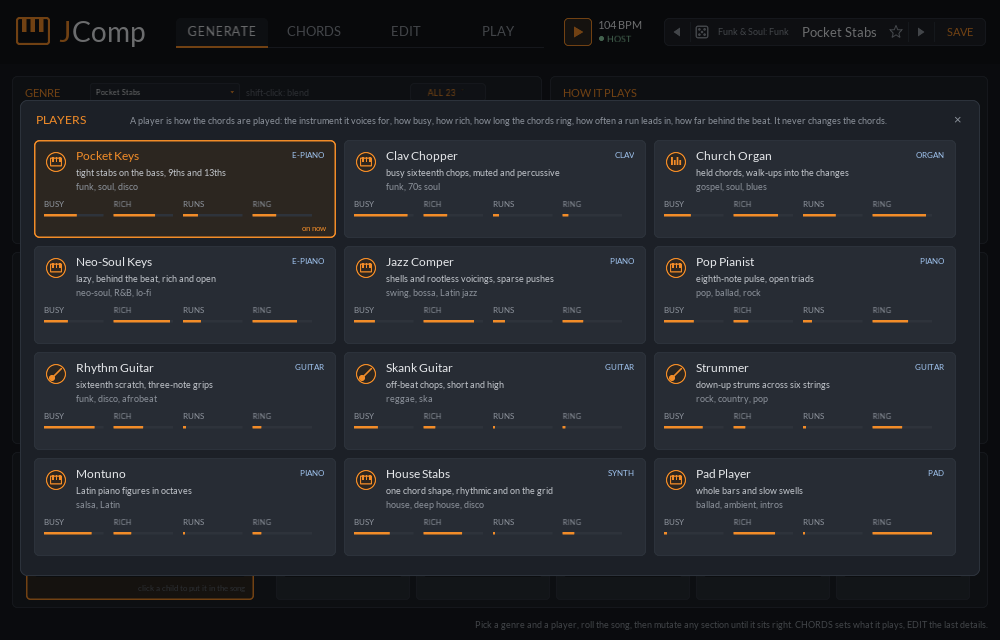
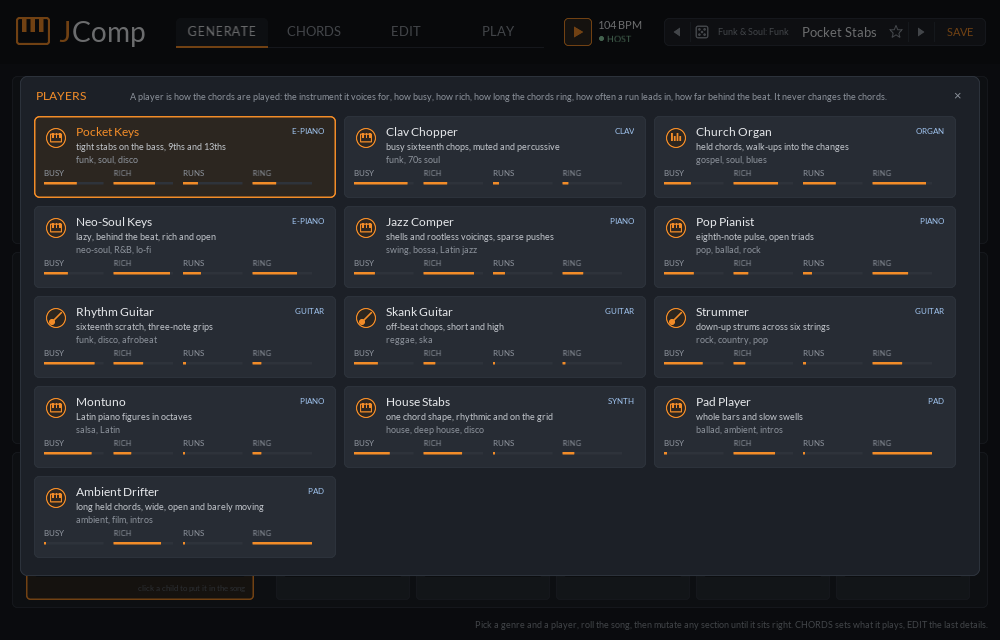
JComp: an Ambient genre and the Ambient Drifter player
Long held chords: a bar or two bars held, slow swells, a late re-strike
like a tape loop coming round, over two-bar sus, add9 and major-seventh
changes that sit between a minor and its relative major. The Ambient
Drifter voices them wide and quartal, rolled in, ringing to the next.
Sourced from Eno's Music for Airports notes and analyses, and Budd's
"soft pedal" playing (docs/sources.md, 47-50). The players overlay fits
a thirteenth card and the browser a seventh family.

Claude-Session: https://claude.ai/code/session_01FGswf7YxMj2ixngay6raQb

diff --git a/plugins/jcomp/src/editor.cpp b/plugins/jcomp/src/editor.cpp
@@ -1,7 +1,7 @@
 // JComp's panel, on a 1000 x 640 design grid scaled to the window, in JDrummer's style: a title bar
 // with the four tabs, a small transport and the preset browser, and cards under it.
 //
-//    GENERATE   GENRE (twelve tiles, the style, the browser of all 23), HOW IT PLAYS (the player,
+//    GENERATE   GENRE (twelve tiles, the style, the browser of every genre), HOW IT PLAYS (the player,
 //               ENERGY, WEIRD, ROLL SONG), THE SONG (seven sections with their chords, each its own
 //               dice, lock and energy), MUTATE (the section's take now and five children)
 //    CHORDS     KEY and scale, where the chords come from (the progression, held notes or both), each
@@ -1727,21 +1727,19 @@ public:
          drawPlayerIcon(c, s, x + 22, y + 22, p.kind, kOrange);
          label(c, s, p.name, x + 42, y + 8, 160, on ? kOrange : kWhite, visage::Font::kLeft, 11.5f);
          label(c, s, upper(kInstrumentNames[p.instrument]), x + 42, y + 9, kCardW - 62, kBlue, visage::Font::kRight, 7.5f);
-         label(c, s, p.blurb, x + 42, y + 26, kCardW - 60, kTitle, visage::Font::kLeft, 9);
-         label(c, s, p.genres, x + 42, y + 40, kCardW - 60, 0, visage::Font::kLeft, 8.5f);
+         label(c, s, p.blurb, x + 42, y + 24, kCardW - 60, kTitle, visage::Font::kLeft, 9);
+         label(c, s, p.genres, x + 42, y + 37, kCardW - 60, 0, visage::Font::kLeft, 8.5f);
          const char *traits[4] = {"BUSY", "RICH", "RUNS", "RING"};
          const double v[4] = {p.busy, p.rich, p.runs, p.ring};
          const float tw = (kCardW - 32) / 4;
          for (int k = 0; k < 4; ++k) {
             const float tx = x + 10 + k * tw;
-            label(c, s, traits[k], tx, y + 58, tw, 0, visage::Font::kLeft, 7.5f);
+            label(c, s, traits[k], tx, y + 51, tw, 0, visage::Font::kLeft, 7.5f);
             c.setColor(ui::defaultTheme().track);
-            c.roundedRectangle(tx * s, (y + 74) * s, (tw - 10) * s, 2.5f * s, 1 * s);
+            c.roundedRectangle(tx * s, (y + 66) * s, (tw - 10) * s, 2.5f * s, 1 * s);
             c.setColor(kOrange);
-            c.roundedRectangle(tx * s, (y + 74) * s, std::max(2.0f, static_cast<float>((tw - 10) * v[k])) * s, 2.5f * s, 1 * s);
+            c.roundedRectangle(tx * s, (y + 66) * s, std::max(2.0f, static_cast<float>((tw - 10) * v[k])) * s, 2.5f * s, 1 * s);
          }
-         if (on)
-            label(c, s, "on now", x + 10, y + kCardH - 24, kCardW - 28, kOrange, visage::Font::kRight, 8);
       }
    }
    void mouseDown(const visage::MouseEvent &e) override {
@@ -1755,14 +1753,14 @@ public:
       if (x < 0 || y < 0)
          return;
       const int col = static_cast<int>(x / kCardW), row = static_cast<int>(y / kCardH);
-      if (col > 2 || row > 3)
+      if (col > 2 || row * 3 + col >= kPlayers)
          return;
       if (onPick)
          onPick(row * 3 + col);
    }
    std::function<void(int)> onPick;
    std::function<void()> onClose;
-   static constexpr float kX = 20, kY = 100, kWBox = 960, kHBox = 476, kCardW = 310, kCardH = 106;
+   static constexpr float kX = 20, kY = 76, kWBox = 960, kHBox = 500, kCardW = 310, kCardH = 90;
 
 private:
    EditorHost &host_;
@@ -1868,7 +1866,7 @@ private:
       std::vector<Item> out;
       for (int col = 0; col < 3; ++col) {
          float y = kY + 44;
-         for (int fam = col * 2; fam < col * 2 + 2; ++fam) {
+         for (int fam = col * 2; fam < (col == 2 ? kFamilyCount : col * 2 + 2); ++fam) {
             const float x = kX + 18 + col * 146;
             out.push_back({x, y, fam, -1});
             y += 15;
@@ -2306,7 +2304,7 @@ private:
       style_->setAccent(kOrange);
       style_->onChange = [this](int i) { pickStyle(whole(kGenre), i); };
       tips_.add(*style_, "The genre's styles. Each is a rhythm, a progression set, a tempo and its twists.");
-      auto &all = onPage<FlatButton>(kGeneratePage, {410, 83, 76, 19}, "ALL 23 \xE2\x96\xB8", 8.5f);
+      auto &all = onPage<FlatButton>(kGeneratePage, {410, 83, 76, 19}, "ALL " + std::to_string(genreCount()) + " \xE2\x96\xB8", 8.5f);
       all.textColour = kOrange;
       all.onClick = [this](const visage::MouseEvent &) {
          host_.browserOpen = true;

diff --git a/plugins/jcomp/src/styles.h b/plugins/jcomp/src/styles.h
@@ -85,8 +85,8 @@ struct Genre {
 };
 
 inline const char *const kFamilies[] = {"Funk & Soul", "Church & Blues", "Jazz & Latin", "Pop & Rock", "Dance",
-                                        "Caribbean & Africa"};
-constexpr int kFamilyCount = 6;
+                                        "Caribbean & Africa", "Ambient"};
+constexpr int kFamilyCount = 7;
 
 // The steps a rhythm has (a '|' isn't one), and whether it is on the triplet grid.
 inline int rhythmSteps(const char *hits) {
@@ -100,7 +100,8 @@ inline bool rhythmTriplet(const char *hits) { return rhythmSteps(hits) % 12 == 0
 // The players, by index into players.h's list.
 enum : int {
    kPocketKeys, kClavChopper, kChurchOrgan, kNeoSoulKeys, kJazzComper, kPopPianist,
-   kRhythmGuitar, kSkankGuitar, kStrummer, kMontuno, kHouseStabs, kPadPlayer
+   kRhythmGuitar, kSkankGuitar, kStrummer, kMontuno, kHouseStabs, kPadPlayer,
+   kAmbientDrifter
 };
 
 inline const std::vector<Genre> &genres() {
@@ -362,6 +363,27 @@ inline const std::vector<Genre> &genres() {
         {"Dance Band", "Dance Band", 120, 0, 0, 0b010, kStrummer},
         {"Bell Twelve", "12/8", 112, kTriplet}},
        "7, 26, 27, 28"},
+
+      // ---- Ambient ----
+      {"Ambient", kFamilies[6], kAmbientDrifter, 0.5, 0,
+       // Long chords: a bar held, two bars held, a slow half-note swell, a chord re-struck late in
+       // the bar like a loop coming round again (Eno's tape loops of unequal length drift in and
+       // out of phase: Music for Airports).
+       {{"x---------------|----------------", 0.2}, {"x---------------", 0.4}, {"o-------x-------", 0.55},
+        {"x---------o-----", 0.65}},
+       {{"x-------o---o---", 0.5}},
+       // Ambiguous, slow harmony: sus and add9 chords that leave the third out or blur it, a key
+       // that sits between a minor and its relative major ("1/2": an add9 with no third, at home in
+       // either Ab major or F minor), and borrowed major sevenths.
+       // Each chord lasts two bars, so a two-bar hold sounds it whole.
+       {{kMajor, {"Csus|Csus|Cadd9|Cadd9", "Cadd9|Cadd9|Fmaj7|Fmaj7|Am9|Am9|Fmaj7|Fmaj7", "Dm9|Dm9|Gsus|Gsus",
+                  "Fmaj7|Fmaj7|Cadd9|Cadd9|Am9|Am9|G7sus|G7sus", "Abmaj7|Abmaj7|Fmaj7|Fmaj7", "Fmaj7|Fmaj7|Cadd9|Cadd9"}},
+        {kMinor, {"Cm9|Cm9|Cm9|Cm9", "Cm9|Cm9|Abmaj7|Abmaj7|Ebmaj7|Ebmaj7|Bbsus|Bbsus", "Abmaj7|Abmaj7|Bbsus|Bbsus",
+                  "Abmaj7|Abmaj7|Ebmaj7|Ebmaj7|Cm9|Cm9|Bbsus|Bbsus", "Fm9|Fm9|Abmaj7|Abmaj7", "Abmaj7|Abmaj7|Cm9|Cm9"}}},
+       {{"Long Tones", "Tones", 70, kLongs | kRich, 0, 0b0011},
+        {"Mirror Drift", "Drift", 64, kLongs | kRich, 1, 0b0001},
+        {"Slow Swells", "Swells", 76, kLongs, 1, 0b0110}},
+       "47, 48, 49, 50"},
    };
    return g;
 }

diff --git a/plugins/jcomp/tests/test_engine.cpp b/plugins/jcomp/tests/test_engine.cpp
@@ -6,6 +6,7 @@
 #include <jclap/core/test_host.h>
 
 #include <algorithm>
+#include <cstdio>
 #include <map>
 #include <memory>
 #include <set>
@@ -305,6 +306,48 @@ int main() {
          JCLAP_CHECK(w.ons > 0);
          JCLAP_CHECK(w.lo >= 55 + offset);
          JCLAP_CHECK(w.hi <= 72 + offset);
+      }
+   }
+   {
+      // Ambient: long chords, and few of them.
+      int g = -1;
+      for (int i = 0; i < genreCount(); ++i)
+         if (std::string(genreAt(i).name) == "Ambient")
+            g = i;
+      JCLAP_CHECK(g >= 0);
+      for (int st = 0; g >= 0 && st < static_cast<int>(genreAt(g).styles.size()); ++st) {
+         Song song;
+         const Recipe r = recipeOf(g, st, 7);
+         generateSong(r, song);
+         std::vector<double> v = defaultValues();
+         for (const auto &[id, x] : styleValues(g, st))
+            v[id] = x;
+         Engine e;
+         e.setSong(song);
+         Settings s = settingsFor(r);
+         s.voicing = voiceSettings([&](clap_id id) { return v[id]; });
+         s.key = song.key;
+         s.runs = 0;
+         e.setSettings(s);
+         e.reset();
+         const std::vector<Timed> out = run(e, 48000 * 16); // 8 bars at 120
+         std::map<int, int64_t> started;
+         double total = 0;
+         int ended = 0, starts = 0;
+         for (const Timed &t : out) {
+            if (t.on()) {
+               started[t.m.data1] = t.time;
+               ++starts;
+            } else if (t.off() && started.count(t.m.data1)) {
+               total += static_cast<double>(t.time - started[t.m.data1]);
+               ++ended;
+               started.erase(t.m.data1);
+            }
+         }
+         JCLAP_CHECK(starts > 0);
+         // The held styles average over half a bar a chord; the swells (half notes) over a beat and a half.
+         JCLAP_CHECK(ended > 0 && total / ended > (st < 2 ? 2.5 : 1.5) * 24000.0);
+         JCLAP_CHECK(starts <= 8 * 3 * 5); // at most three chords of five notes a bar
       }
    }
    {

diff --git a/plugins/jcomp/src/players.h b/plugins/jcomp/src/players.h
@@ -30,7 +30,7 @@ struct Player {
    int laidBack;
 };
 
-constexpr int kPlayers = 12;
+constexpr int kPlayers = 13;
 
 inline const Player kPlayerList[kPlayers] = {
    {"Pocket Keys", "tight stabs on the bass, 9ths and 13ths", "funk, soul, disco", kEPiano, kKeys,
@@ -57,6 +57,10 @@ inline const Player kPlayerList[kPlayers] = {
     kClose, 4, 52, 76, 63, 0, 0.6, 0.65, 0.0, 0.2, 0.0, 0},
    {"Pad Player", "whole bars and slow swells", "ballad, ambient, intros", kPad, kKeys,
     kDrop24, 5, 45, 79, 60, 1, 0.05, 0.7, 0.0, 1.0, 0.2, 0},
+   // Eno's ambient (Music for Airports' liner notes keep "doubt and uncertainty"; its "1/2" an
+   // add9 chord with no third) and Budd's "soft pedal" piano: slow, sustained, open and ambiguous.
+   {"Ambient Drifter", "long held chords, wide, open and barely moving", "ambient, film, intros", kPad, kKeys,
+    kQuartal, 5, 43, 86, 62, 1, 0.0, 0.8, 0.0, 1.0, 0.45, 0},
 };
 
 } // namespace jcomp

diff --git a/plugins/jcomp/docs/sources.md b/plugins/jcomp/docs/sources.md
@@ -1277,6 +1277,42 @@ The alternative is **Organ Trio / Soul Jazz**, but I found no sources for it thi
 
 ---
 
+### B25. Ambient (added after the first release, at Jeff's request)
+
+**Rhythms** (derived)
+
+| ID | Pattern | Description |
+|---|---|---|
+| AM1 | `x---------------\|----------------` | one chord held two bars |
+| AM2 | `x---------------` | one chord a bar, held |
+| AM3 | `o-------x-------` | slow half-note swell, the second stronger |
+| AM4 | `x---------o-----` | re-struck late in the bar, like a loop coming round again |
+
+- Eno's ambient music must be "as ignorable as it is interesting"; unlike conventional background
+  music it keeps "doubt and uncertainty" [47]. Hence few attacks and long holds.
+- *Music for Airports* "1/2" is built from eight short piano tape loops of unequal length that drift
+  in and out of alignment, so the music keeps changing without a set structure [48][49]. The late
+  re-strike (AM4) and the two-bar hold (AM1) imitate that unevenness on a fixed grid (derived).
+- Harold Budd's "soft pedal" playing on *Ambient 2: The Plateaux of Mirror* (1980): slow and
+  sustained [50].
+
+**Voicings**
+
+- Open and wide: quartal stacks and spread voicings over about two octaves, rolled slightly
+  (derived from [48]: the chord in "1/2" is an arpeggiated F, C, G).
+- Thirds left out or blurred: sus and add9 chords. "1/2"'s chord is read as F(add9) with no third,
+  "ambiguous", fitting "equally well into Ab major and F minor" [49].
+
+**Harmony** (derived; unverified as any specific recording's changes)
+
+- Major set: Csus, Cadd9, Fmaj7, Am9, Dm9, Gsus, G7sus, with a borrowed Abmaj7 in the bridge.
+- Minor set, sitting between C minor and its relative Eb major as [49] describes: Cm9, Abmaj7,
+  Ebmaj7, Bbsus, Fm9.
+
+**Feel:** no swing, 64-76 BPM, no runs, chords held to the next.
+
+**Archetype:** the "ambient drifter": long chords, barely moving.
+
 ## Part C. Section-by-section guidance (all genres)
 
 These defaults are (unverified, practice-derived) unless noted.
@@ -1441,3 +1477,19 @@ These defaults are (unverified, practice-derived) unless noted.
 46. Scribd copy of an academic article on early West African highlife (palm-wine patterns
     "mainline", "dagomba", "fireman"). https://www.scribd.com/document/465261286/931273 (search
     snippet; author not identified).
+47. Eno, Brian. Liner notes, *Ambient 1: Music for Airports* (Polydor/EG, 1978), dated September
+    1978; reprinted as "Ambient Music Defined", Synthtopia, 2008.
+    https://www.synthtopia.com/content/2008/10/28/ambient-music-defined/ (search snippet: "as
+    ignorable as it is interesting").
+48. Reverb Machine. "How Brian Eno Created Ambient 1: Music for Airports."
+    https://reverbmachine.com/blog/deconstructing-brian-eno-music-for-airports/ ; and Open Culture,
+    "Deconstructing Brian Eno's Music for Airports" (2019)
+    https://www.openculture.com/2019/07/deconstructing-brian-enos-music-for-airports.html (search
+    snippets: eight piano loops of different lengths; they disagree on whether one is an arpeggio or a
+    glissando chord).
+49. MusicRadar. "A music professor breaks down Brian Eno's Ambient 1: Music for Airports."
+    https://www.musicradar.com/artists/the-album-was-played-in-laguardia-airport-for-a-brief-period-in-1980-but-travellers-said-it-induced-unease-and-sounded-like-funeral-music-a-music-professor-breaks-down-brian-enos-ambient-1-music-for-airports
+    (search snippet: F(add9) with no third, fitting Ab major or F minor; uncorroborated elsewhere).
+50. Wikipedia. "Harold Budd" and "Ambient 2: The Plateaux of Mirror."
+    https://en.wikipedia.org/wiki/Harold_Budd (search snippet: the "soft pedal" style, slow and
+    sustained).

diff --git a/README.md b/README.md
@@ -66,7 +66,7 @@ Panels are shown at one-third size. They are the screenshot-test references, so 
 | [JKit](plugins/jkit) | Instrument | 16-pad drum kit whose sounds AI makes from your words, inside the plugin, with a choice of engines (Stable Audio Open Small or 1.0, or ORB's planner and physical models), each downloaded and removable on its own: random prompts from plain to strange, variants, trim and fade, or a whole kit in one style at once (drums, hand percussion, Afro-Latin percussion, effects or animals), up to 8 variations a pad played at random, in turn or by velocity, then per-pad pitch, start and end, a points EQ with filters, drive and sends, master EQ, reverb, delay, width and boom |
 | [J2D2](plugins/j2d2) | Instrument | MPE droid synth: every note speaks a droid syllable (or a whole phrase) from eight measured kinds of sound and shaped by a personality pad, hums a five-layer drone (tone, partials, air, metal, sub) that drifts from in tune to atonal, or both, with pressure popping bleeps through a held drone, two envelopes, two shape LFOs and a room |
 | [JDrummer](plugins/jdrummer) | Note effect | Drum pattern generator and sequencer for JKit's 16 pads: 34 genres and 233 styles (every one a preset, the hand percussion in its traditions' own rhythms), blended, played by six drummers and six percussionists, with energy and weird, whole songs of seven sections (each with its own energy down to silence, four variations and a fill) rolled, locked and mutated five children at a time, every hit's velocity, chance, ratchet and nudge editable, sections switched by click, note (learnable) or automation, fills, vary and swing (in sixteenths or eighths), following the host or running free |
-| [JComp](plugins/jcomp) | Note effect | Accompaniment generator for keys, organ, guitar or pads, the chord-playing partner to JDrummer: 23 genres and 69 styles (every one a preset, each sourced from published research and transcriptions), played by twelve players, whole songs of seven sections with their own progressions, voiced with voice leading (close, drop 2, shells, quartal, spread, inside low-interval limits), passing runs into changes, chords from the progression, from what you hold or both, rhythm from its own takes or from a bass line, mutated five children at a time, every hit editable, following the host or running free |
+| [JComp](plugins/jcomp) | Note effect | Accompaniment generator for keys, organ, guitar or pads, the chord-playing partner to JDrummer: 24 genres and 72 styles (every one a preset, each sourced from published research and transcriptions), played by thirteen players, whole songs of seven sections with their own progressions, voiced with voice leading (close, drop 2, shells, quartal, spread, inside low-interval limits), passing runs into changes, chords from the progression, from what you hold or both, rhythm from its own takes or from a bass line, mutated five children at a time, every hit editable, following the host or running free |
 | [Basic Synth](plugins/basic-synth) | Instrument | Eight-voice MPE synth: dual detunable oscillators, key-tracking filter, VCA, two looping envelopes and an LFO |
 | [JTunnel](plugins/jtunnel) | Audio effect | Sends a track's audio and MIDI over the network to other JTunnels (found by name over mDNS), or plays what one sends, with Opus or PCM, a drift-following buffer for Wi-Fi, and redundancy against loss |
 | [Polar XY](plugins/polar-xy) | Note effect | Turns two XY CCs into angle/radius CCs for Omnisphere's Orb ([manual](plugins/polar-xy/docs/PolarXY-User-Manual.pdf)) |

diff --git a/plugins/jcomp/README.md b/plugins/jcomp/README.md
@@ -41,8 +41,8 @@ out the same way (the seven sections on the white keys from C0), so one MIDI cli
 
 ### GENRE
 
-23 genres in six families, 69 named styles among them, and every style is also a factory preset. The
-twelve tiles are the common ones, each drawn as its style plays; **ALL 23** opens the browser with
+24 genres in seven families, 72 named styles among them, and every style is also a factory preset. The
+twelve tiles are the common ones, each drawn as its style plays; **ALL 24** opens the browser with
 every genre, its styles, their tempos and progressions, and the sources each genre was written from.
 
 | Family | Genres |
@@ -53,6 +53,7 @@ every genre, its styles, their tempos and progressions, and the sources each gen
 | Pop & Rock | Pop, Rock, Piano Ballad, Country |
 | Dance | House, Deep House |
 | Caribbean & Africa | Reggae, Ska, Afrobeat, Highlife |
+| Ambient | Ambient (long held chords) |
 
 ![Browser](docs/panel-browser.png)
 
@@ -82,6 +83,7 @@ voicings sit, onsets, timing, runs).
 | Montuno | Piano | Latin piano figures in octaves |
 | House Stabs | Synth | one chord shape, rhythmic and on the grid |
 | Pad Player | Pad | whole bars and slow swells |
+| Ambient Drifter | Pad | long held chords, wide (quartal), open and barely moving, rolled in |
 
 ![Players](docs/panel-players.png)
 
@@ -321,6 +323,7 @@ from.
 | Ska | Britannica [22] |
 | Afrobeat | Stewart's interlock tables [13]; Veal [14] |
 | Highlife | guajeo [7]; Braddock [26]; Koo Nimo [27]; Music in Africa [28] |
+| Ambient | Eno's *Music for Airports* liner notes [47]; analyses of its "1/2" and its tape loops [48][49]; Harold Budd's "soft pedal" playing [50] |
 
 The voicing rules draw on low interval limits (Hoffmann [3]; Pease & Pullig [4]), Levine's rootless
 and shell voicings [2], and big-band voicing practice (Rogers [41]). Voice leading follows the least
@@ -334,7 +337,9 @@ The 90s R&B, Lo-fi, Gospel, Disco keys, House piano, Country, Motown keyboard rh
 bubble's exact grid and Highlife transcriptions are thin: many of their rhythm grids are marked
 *unverified* in the notes, a well-informed default from the idiom that should be checked by ear
 against the named recordings. Several books were cited through secondary pages only (Mauleón, Garcia,
-Veal, Braddock, the Hal Leonard guides). The styles are original patterns in each idiom's manner, not
+Veal, Braddock, the Hal Leonard guides). Ambient rests on search snippets about Eno's and Budd's records; its
+progressions are derived from what those describe (open, ambiguous, sus and add9) rather than taken
+from any recording. The styles are original patterns in each idiom's manner, not
 transcriptions of any recording.
 
 **Left out for now.** Jazz Waltz (it needs 3/4, which JComp's 4/4 grid can't play), a "+ GUITAR"
